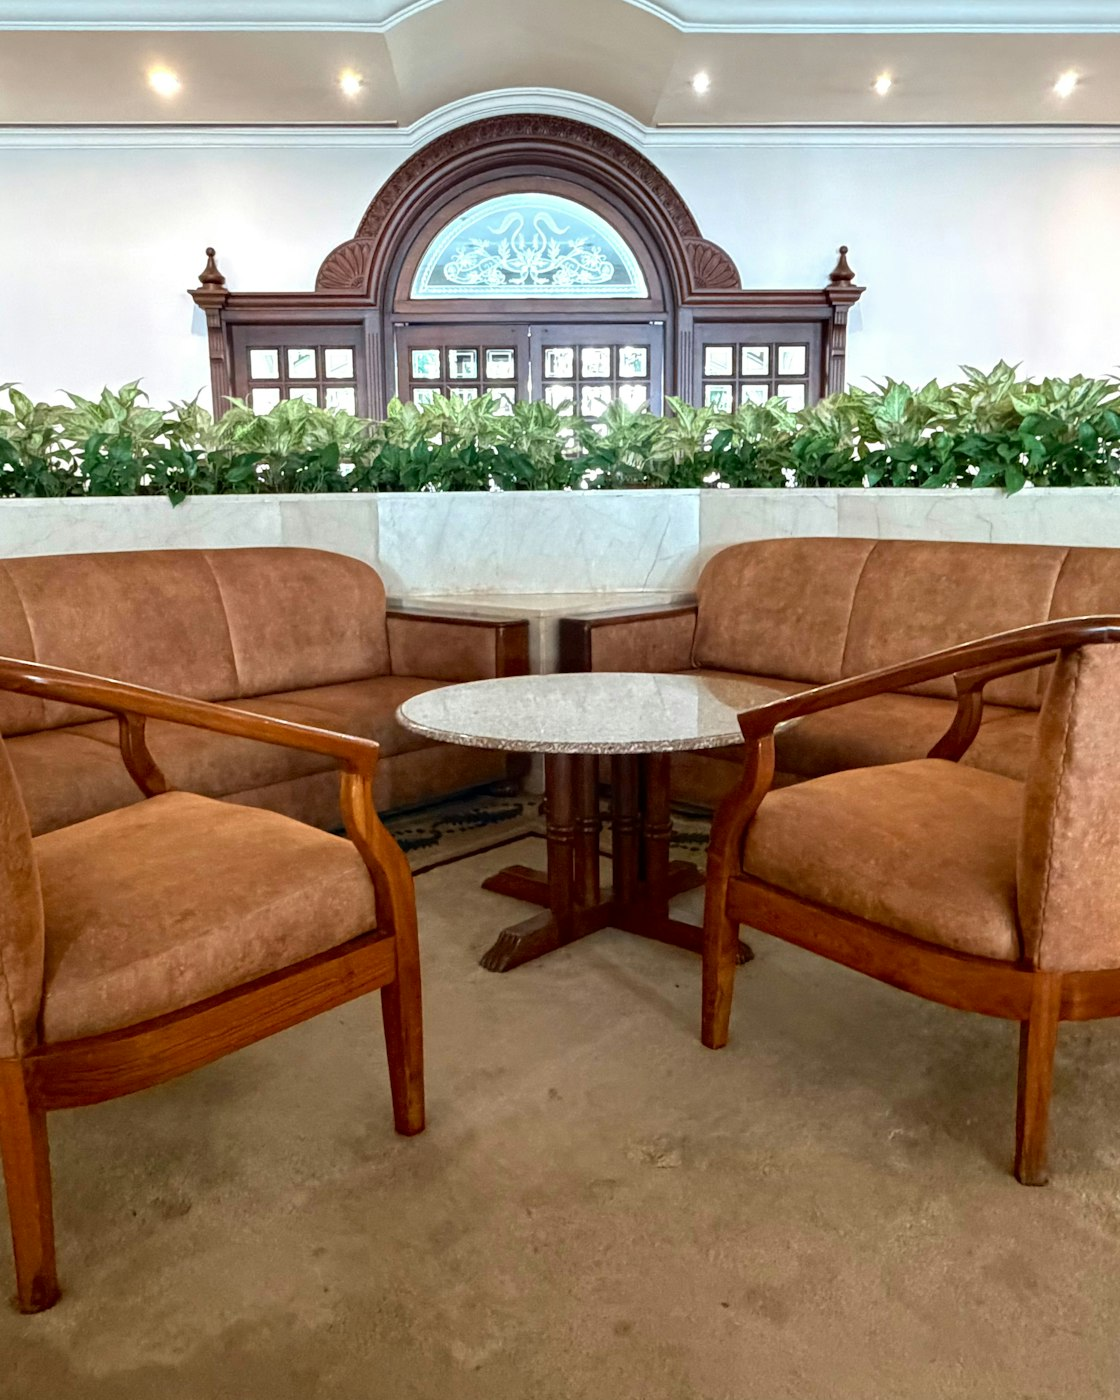
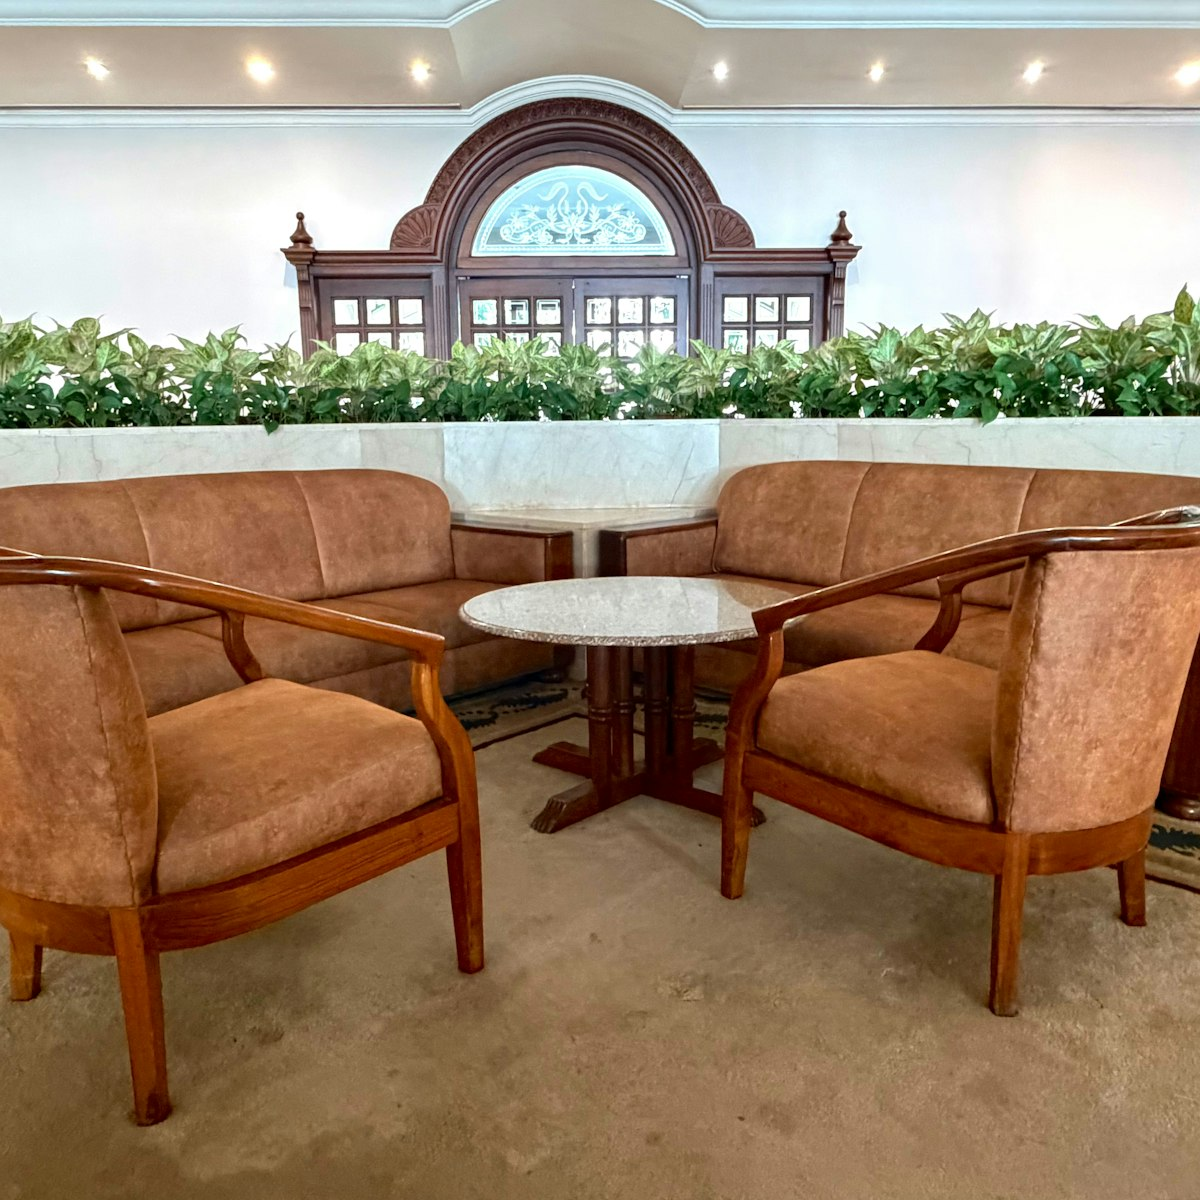
Fix oversized/misaligned split image on Contact page
The "Areas We Serve" split photo used a 4:5 portrait aspect ratio,
which made it far taller than the short text/chip content next to it,
leaving a large empty gap. Switched the image to a square 1:1 crop
(re-cropped from source) so its height matches the content better.

diff --git a/Solace Wellness IV - Contact.dc.html b/Solace Wellness IV - Contact.dc.html
@@ -353,7 +353,7 @@
 
         .ct-split-photo {
           width: 100%;
-          aspect-ratio: 4/5;
+          aspect-ratio: 1/1;
           border-radius: 24px;
           background-size: cover;
           background-position: center;
